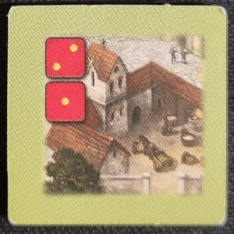
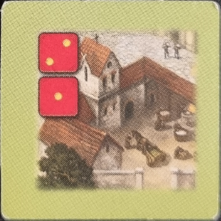
went back to sveltekit for frontend, removed alot of the code, was not needed, only thing left to fix is the persistant store

diff --git a/client/src/routes/Tile.svelte b/client/src/routes/Tile.svelte
@@ -1,64 +1,26 @@
-<script>
-    import { onMount } from "svelte";
-
-  export let num = 0
-  export let cityColor = ''
+<script>  
+  export let number = 0
+  export let color = ''
 
   let used = false
-  let w = 300
-  let h = 300
-
-  let tileHeight, tileWidth
-
-  $: h = tileHeight
-  $: w = tileWidth
-
-  let bg = ''
-
 
   const handleClick = () => used = !used
   
 </script>
 
-<div id="tile-wrapper"  style="background-color:{"white"}">
-  {#if num === 0}
-    <img id="info" src="/images/{cityColor}Info.png" alt="">
-  <!-- svelte-ignore a11y_no_static_element_interactions -->
-  {:else}
-    <!-- svelte-ignore a11y_click_events_have_key_events -->
-    <!-- svelte-ignore a11y_no_static_element_interactions -->
-    <div class="click-wrapper" on:click={handleClick} bind:clientHeight={tileHeight} bind:clientWidth={tileWidth}>
-      {#if !used}
-        <img id="card" class="picture" src="/images/tiles/{cityColor}/{cityColor}_{num}.png" alt="">
-      {:else}
-        <div id="dice-wrapper">
-          <img id="dice" class="picture" src="/images/tiles/{cityColor}/used/{cityColor}_{num}_used.png" alt="">
-        </div>
-      {/if}
-    </div>
-  {/if}
-</div>
+
+{#if !used}
+  <button id="card" aria-label="city" on:click={handleClick} class="picture" style="background-image: url(/images/tiles/{color}/{color}_{number}.png)" alt="city-upgrade"></button>
+{:else}
+  <button id="dice" aria-label="korv" on:click={handleClick} class="picture" style="background-image: url(images/tiles/{color}/used/{color}_{number}_used.png" alt="city-upgrade"></button>
+{/if}
 
 <style>
-  #tile-wrapper {
-    position: relative;
-    display: flex;
-    flex-direction: column;
+  button {
     width: 100%;
     height: 100%;
-    padding: 1rem;
+    background-position: center;
+    background-size: cover;
+    border-radius: 1rem;
   }
-
-  .click-wrapper {
-    width: 100%;
-    height: 100%;
-  }
-
-  .picture {
-    width: 95px;
-    position: absolute;
-    top: 5px;
-    left: 5px;
-  }
-
 </style>

diff --git a/client/src/routes/+page.svelte b/client/src/routes/+page.svelte
@@ -1,27 +1,56 @@
 <script>
-  import City from "./City.svelte"
+   const initializeLocalstorage = () => {
+    
+    if(!localStorage.getItem('status')) {
+      let db = {}
+      let colors = ['yellow', 'blue', 'green']
+      let numbers = [1, 2, 3, 4, 5]
+
+      for (let i = 0; i < colors.length; i++) {
+        for (let j = 1; j < numbers.length+1; j++) {
+          let tile = [colors[i]][numbers[j]]
+          console.log(tile);
+          db[tile] = false
+
+        }
+      }
+      localStorage.setItem('status', db)
+    }
+  }
+
+  initializeLocalstorage()
+  import Board from "./Board.svelte"
+  
   const colors = ['yellow', 'blue', 'green']
+
 </script>
 
 <div id="wrapper">
-  {#each colors as cityColor}
-    <div id="inner-wrapper" style="background-color{cityColor}">
-      <City {cityColor}/>
+  {#each colors as color}
+    <div id="inner-wrapper">
+      <Board {color}/>
     </div>
   {/each}
 </div>
 
 <style>
-  :root {
-    padding: 0px;
-    margin: 0px;
+  :global(html, body) {
+    margin: 0;
+    padding: 0;
+    /**TODO change this background color to an image to the same background as the board has*/
+    background-color: black;
   }
+
   #wrapper {
     display: flex;
+    background-image: url('/images/board.png');
+    background-size: contain;
+    background-repeat: no-repeat;
+    background-position: center;
   }
+
   #inner-wrapper {
     height: 100vh;
     width: 100vw;
-    background-color: white;
   }
 </style>

diff --git a/client/src/routes/Board.svelte b/client/src/routes/Board.svelte
@@ -1,0 +1,37 @@
+<script>
+  export let color = 'yellow'
+
+  import Tile from "./Tile.svelte"
+  
+  let tiles = [5, 4, 3, 2, 1]
+
+</script>
+
+<div id="wrapper">
+  {#each tiles as number}
+    <div id="id{number}" class="square" style="grid-area: id{number}; ">
+      <Tile {number} {color}/>
+    </div>
+  {/each}
+</div>
+
+<style>
+  #wrapper {
+    height: 100%;
+    display: grid;
+    grid-template-areas: 
+    ".  .    .  ."
+    ".  id4 id5 ."
+    ".  id3 .   ."
+    ".  id2 id1 ."
+    ".  .    .  .";
+    grid-template-columns: 15% 1fr 1fr 10%;
+    grid-template-rows: 12.5% 1fr 1fr 1fr 7%;
+  }
+  
+  .square {
+    width: 85%;
+    height: 85%;
+  }
+
+</style>

diff --git a/client/src/app.html b/client/src/app.html
@@ -2,12 +2,14 @@
 <html lang="en">
 	<head>
 		<meta charset="utf-8" />
+		<title>C&K</title>
 		<link rel="manifest" href="./catan.webmanifest" />
+		<link rel="apple-touch-icon" href="../static/images/icon1.png">
 		<link rel="icon" href="%sveltekit.assets%/favicon.png" />
 		<meta name="viewport" content="width=device-width, initial-scale=1" />
 		%sveltekit.head%
 	</head>
 	<body data-sveltekit-preload-data="hover">
-		<div style="display: contents">%sveltekit.body%</div>
+		<div>%sveltekit.body%</div>
 	</body>
 </html>
